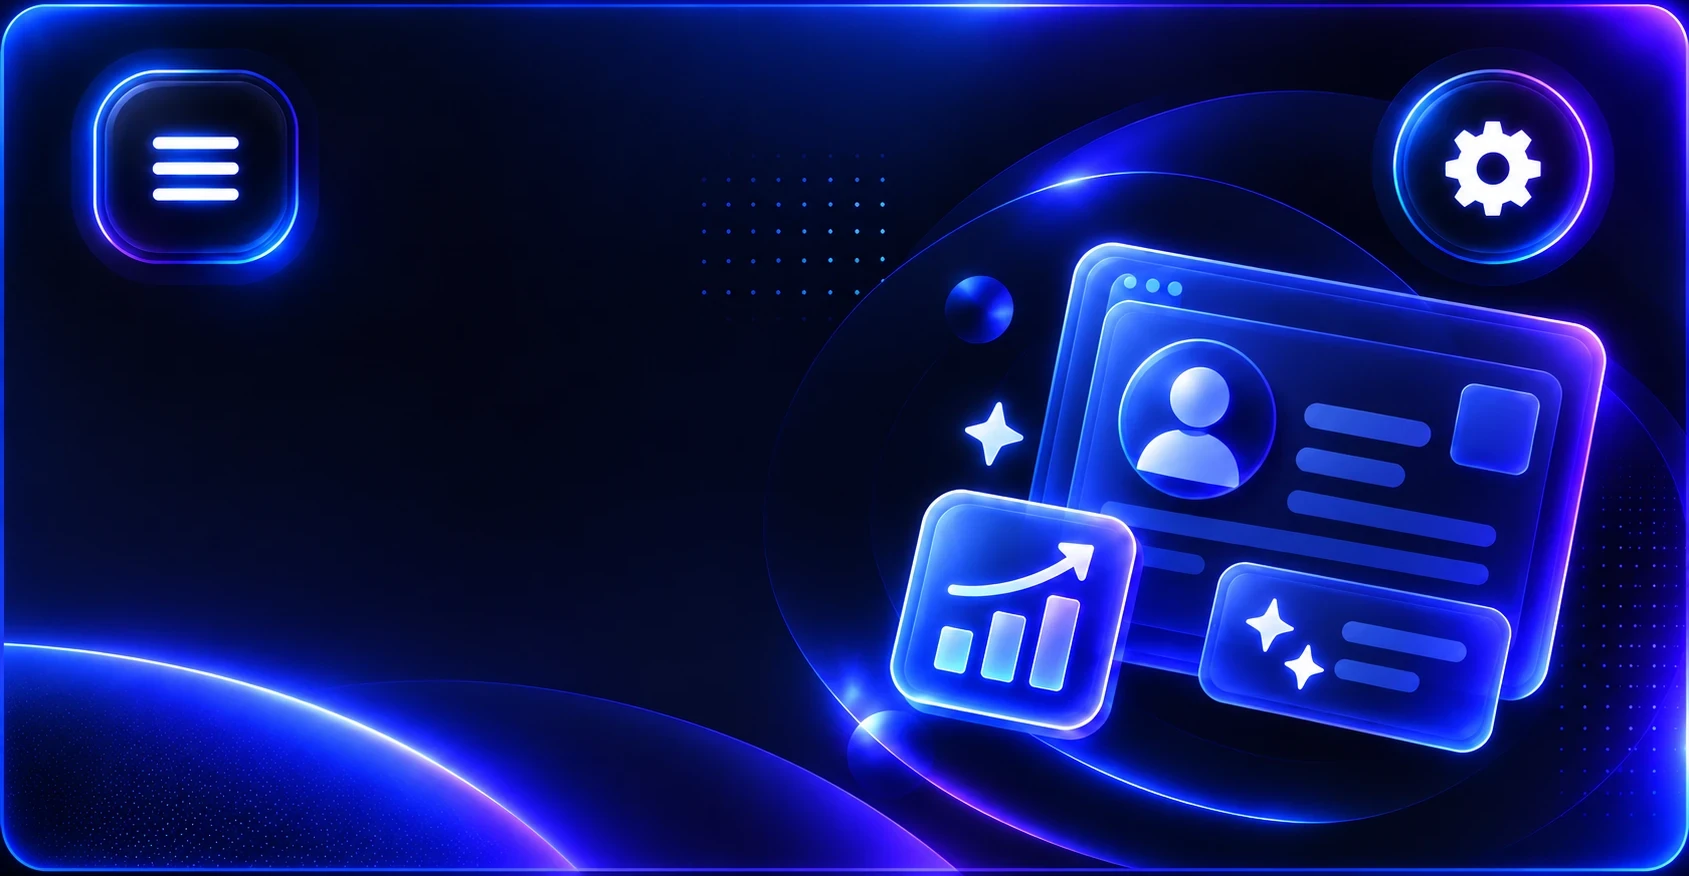
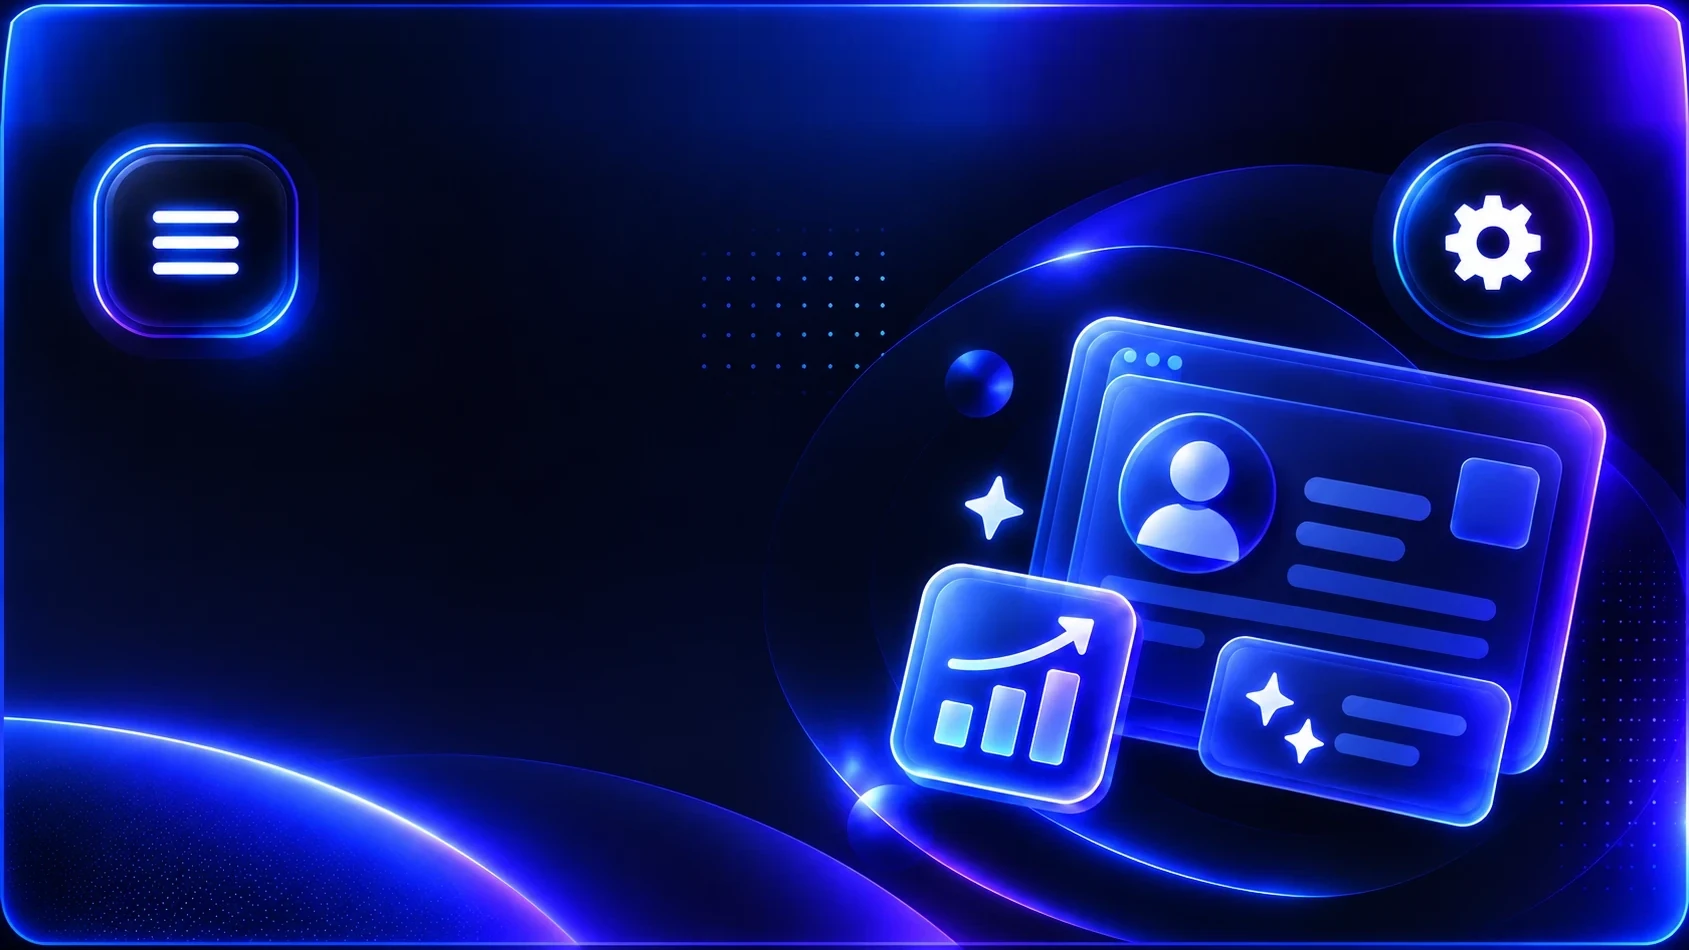
improve optimizer hero

diff --git a/src/linkedin/panel/panelStyles.ts b/src/linkedin/panel/panelStyles.ts
@@ -1246,8 +1246,8 @@ export function getPanelStyles(widthPx: number): string {
     left: 19.9%;
   }
   .lw-art-hero--optimizer .lw-art-hero__hotspot {
-    top: 8%;
-    height: 22.1%;
+    top: 15.2%;
+    height: 20.4%;
   }
   .lw-art-hero--optimizer .lw-art-hero__hotspot--menu {
     left: 5.5%;
@@ -1259,19 +1259,27 @@ export function getPanelStyles(widthPx: number): string {
     width: 11.7%;
     border-radius: 50%;
   }
-  /* Kept to the left of the drawn profile card and chart, which start a little past half width. */
+  /* Between the menu and the planet's rim, ending just left of the orb, sparkle and chart tile
+     (which start past 53% of the width): one-line title, two-line subtitle. */
   .lw-art-hero--optimizer .lw-art-hero__copy {
     left: 5.5%;
-    top: 34%;
-    max-width: 46%;
+    top: 39%;
+    max-width: none;
   }
   .lw-art-hero--optimizer .lw-art-hero__title {
-    font-size: 7cqw;
+    font-size: 6.4cqw;
+    line-height: 1.1;
+    white-space: nowrap;
   }
   .lw-art-hero--optimizer .lw-art-hero__subtitle {
-    max-width: 46cqw;
-    margin-top: 1.5cqw;
-    font-size: 3.2cqw;
+    margin-top: 1.8cqw;
+    font-size: 3.6cqw;
+    line-height: 1.32;
+    color: #f2f4ff;
+  }
+  .lw-art-hero--optimizer .lw-art-hero__subtitle > span {
+    display: block;
+    white-space: nowrap;
   }
   /* Live text laid over artwork, sized in container widths so it scales with the image the way
      the Analyzer artwork's drawn title does, and placed where that title sits. */

diff --git a/src/linkedin/panel/MainMenu.tsx b/src/linkedin/panel/MainMenu.tsx
@@ -169,7 +169,7 @@ export function OptimizerHero() {
       name="optimizer"
       path="content/assets/profile-optimizer-hero.webp"
       width={1689}
-      height={876}
+      height={950}
       alt=""
       hotspots={[
         { label: "Open LinkWise menu", modifier: "menu", onClick: () => panelToolPreference.set("menu") },
@@ -178,7 +178,9 @@ export function OptimizerHero() {
     >
       <div className="lw-art-hero__copy">
         <h2 className="lw-art-hero__title">Profile Optimizer</h2>
-        <p className="lw-art-hero__subtitle">Improve your LinkedIn profile with AI-powered suggestions.</p>
+        <p className="lw-art-hero__subtitle">
+          <span>Improve your LinkedIn profile</span> <span>with AI-powered suggestions.</span>
+        </p>
       </div>
     </ArtworkHero>
   );

diff --git a/src/linkedin/panel/optimizerHero.test.tsx b/src/linkedin/panel/optimizerHero.test.tsx
@@ -10,7 +10,7 @@ describe("OptimizerHero", () => {
     const html = renderToStaticMarkup(<OptimizerHero />);
     expect(html).toContain("content/assets/profile-optimizer-hero.webp");
     expect(html).toMatch(/<h2 class="lw-art-hero__title">Profile Optimizer<\/h2>/);
-    expect(html).toContain("Improve your LinkedIn profile with AI-powered suggestions.");
+    expect(html).toContain("<span>Improve your LinkedIn profile</span> <span>with AI-powered suggestions.</span>");
     expect(html).toContain('aria-label="Open LinkWise menu"');
     expect(html).toContain('aria-label="Open LinkWise settings"');
   });
